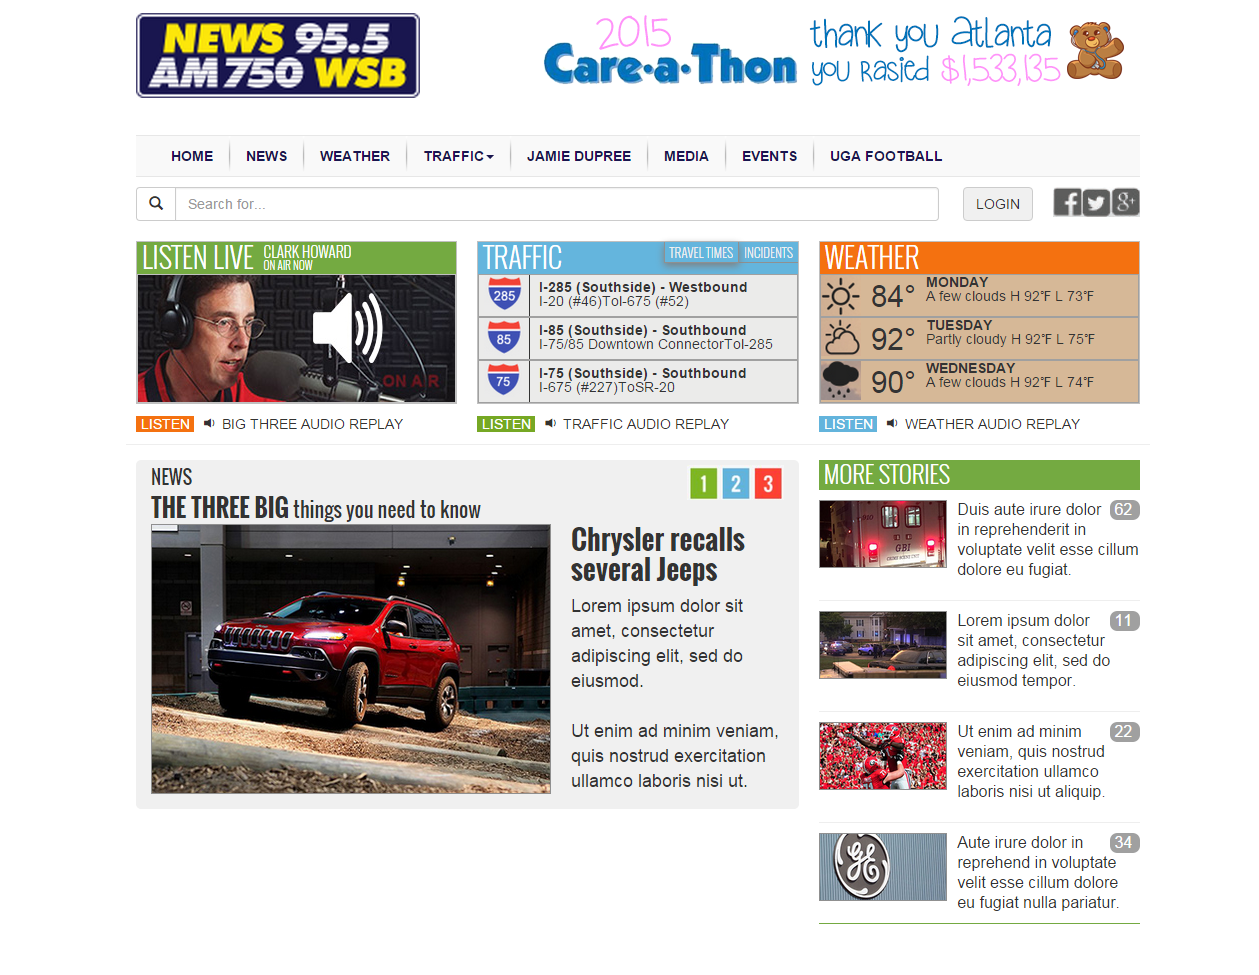
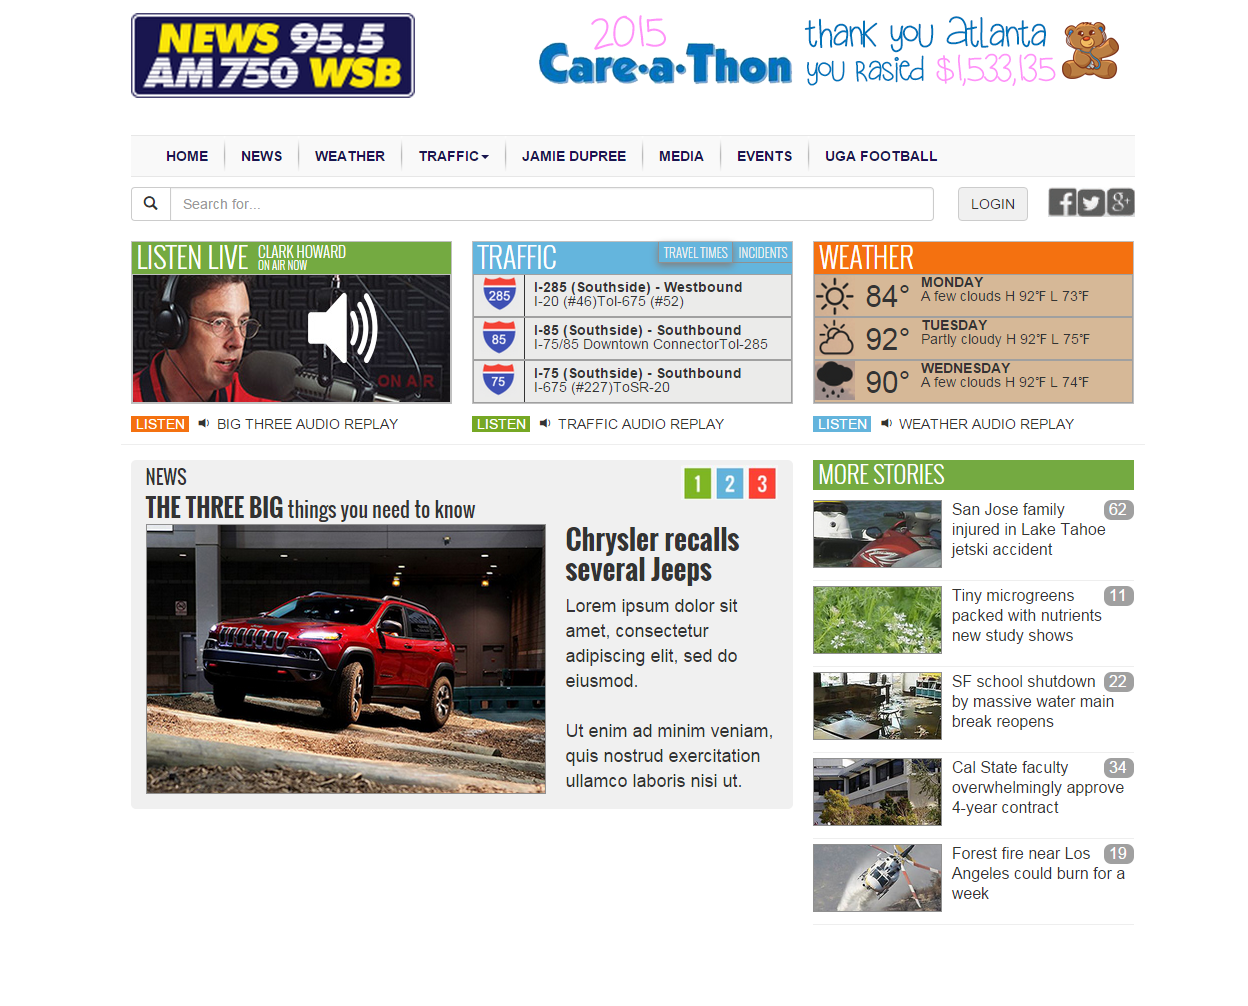
Updated comps

diff --git a/js/uidev-assignment-data.js b/js/uidev-assignment-data.js
@@ -28,8 +28,8 @@ angular.module('newstalkApp', [])
             lead_photo_image_url: "http://media.cmgdigital.com/shared/lt/lt_cache/resize/260x360/img/photos/2012/01/21/52/fe/28839068_3.jpg",
             pub_date: "2012-09-04T12:00:00-07:00",
             status: "1",
-            summary: "Tiny microgreens packed with nutrients",
-            title: "Tiny microgreens packed with nutrients",
+            summary: "Tiny microgreens packed with nutrients new study shows",
+            title: "Tiny microgreens packed with nutrients new study shows",
             story: "<p>They may be tiny, but a new study shows trendy microgreens punch well above their weight when it comes to nutrition.</p> <p>Researchers found microgreens like red cabbage, cilantro, and radish contain up to 40 times higher levels of vital nutrients than their mature counterparts.</p> <p>Microgreens are young seedlings of edible vegetables and herbs harvested less than 14 days after germination. They are usually about 1-3 inches long and come in a rainbow of colors, which has made them popular in recent years as garnishes with chefs.</p> <p>Although nutritional claims about microgreens abound on the Internet, this study is the first scientific evaluation of their nutritional content. Researchers say they were astonished by the results.</p> <p>&ldquo;The microgreens were four- to 40-fold more concentrated with nutrients than their mature counterparts,&rdquo; says researcher Qin Wang, PhD, assistant professor at the University of Maryland in College Park. &ldquo;When we first got the results we had to rush to double and triple check them.&rdquo;</p> <p>For example, red cabbage microgreens had 40 times more vitamin E and six times more vitamin C than mature red cabbage. Cilantro microgreens had three times more beta-carotene mature cilantro.</p> <p><strong>Microgreens Pack Nutritional Punch</strong></p> <p>Researchers evaluated levels of four groups of vital nutrients, including vitamin K, vitamin C, vitamin E, lutein, and beta-carotene, in 25 different commercially grown microgreens.</p> <p>The results are published in the Journal of Agricultural and Food Chemistry.</p> <p>Vitamin C, vitamin K, and vitamin E levels were highest among red cabbage, garnet amaranth, and green daikon radish microgreens.</p> <p>Cilantro microgreens were richest in terms of lutein and beta-carotene.</p> <p>&ldquo;All of these nutrients are extremely important for skin, eyes, and fighting cancer and have all sorts of benefits associated with them,&rdquo; says researcher Gene Lester, PhD, of the USDA.&nbsp;</p> <p>Lester said he was surprised to find microgreens were superior in nutritional value than the mature plants.</p> <p>&ldquo;To find that the levels were not only detectible but in some cases 4-6 times more concentrated than in the leaves of a mature plant, I find that quite astonishing.&rdquo;</p> <p>Although more research is needed, Wang says there may be a good explanation for microgreens&rsquo; high nutrient content.</p> <p>&ldquo;Because microgreens are harvested right after germination, all the nutrients they need to grow are there,&rdquo; says Wang. &ldquo;If they are harvested at the right time they are very concentrated with nutrients, and the flavor and texture is also good.&rdquo;</p> <p><strong>A Little Goes a Long Way</strong></p> <p>Experts say the flavor of microgreens is also more intense, so a little goes a long way to enhance a meal.</p> <p>Until recently, commercially grown microgreens have only been available to chefs, who use them as flavor accents and garnishes for soups, salads, and sandwiches.</p> <p>Today, they are available at most farmers markets and upscale grocery stores.</p> <p>They generally cost more than mature greens, but registered dietitian Roberta Duyff says that shouldn&rsquo;t discourage people from eating them.</p> <p>They are quick and easy to grow indoors on a sunny windowsill and are a great project for kids, says Duyff, who is the author of the American Dietetic Association Complete Food and Nutrition Guide.</p> <p>&ldquo;They are little, and kids like things that are kid&rsquo;s size,&rdquo; Duyff says. &ldquo;They can put it on their own salad or some cheese or hummus to make it look pretty.&rdquo;</p> <p>Like most spices and herbs that are also highly concentrated with nutrients, she says you don&rsquo;t need much to add flavor and spark to the plate.</p> <p>Duyff says microgreens are extremely delicate and, like any raw vegetable, need to be washed carefully before eating. Due to their high water content, cooking microgreens isn&rsquo;t recommended.</p> <p>When choosing a microgreen, researchers say to look for the most intensely colored ones, which will be the most nutritious.</p> <p>&ldquo;It&rsquo;s really kind of an artistic thing currently, but it&rsquo;s nice to know that not only do microgreens look pretty and have strong flavor, but they also have an incredible punch of nutrition,&rdquo; says Lester.</p> <p>SOURCES: Xiao, Z. Journal of Agricultural and Food Chemistry, Aug. 22, 2012.News release, American Chemical Society.Roberta L. Duyff, MS, RD, food and nutrition consultant, St. Louis, Mo.; author, American Dietetic Association Complete Food and Nutrition Guide.Gene Lester, PhD, research plant physiologist, USDA.Qin Wang, PhD, assistant professor, University of Maryland, College Park.</p>",
             topics: ["Health News", "vitamins", "Sprouting", "nutrition", "lutein", "Hydrocarbons", "Hospitality_Recreation", "health", "Food colorings", "Chemistry", "Carotenoids", "Carotene"],
             updated: "2012-09-04T12:00:00-07:00",
@@ -60,8 +60,8 @@ angular.module('newstalkApp', [])
             lead_photo_image_url: "http://media.cmgdigital.com/shared/lt/lt_cache/resize/260x230/img/photos/2012/09/04/8a/fb/sf_california_state_university.jpg",
             pub_date: "2012-09-04T11:34:55-07:00",
             status: "1",
-            summary: "Cal State faculty approve 4-year contract",
-            title: "Cal State faculty approve 4-year contract",
+            summary: "Cal State faculty overwhelmingly approve 4-year contract",
+            title: "Cal State faculty overwhelmingly approve 4-year contract",
             story: "<p>The California State University faculty has overwhelmingly approved a new four-year labor contract, ending more than two years of contentious bargaining with the administration, the union said Tuesday.</p> <p>Lillian Taiz, president of the California Faculty Association, said the contract, which largely preserves current working conditions and contains no salary raises, won 91 percent of approval by voting members.</p> <p>About 45 percent of the union's 12,500 voting members cast ballots over several weeks last month. Many faculty members were out of town on research assignments, Taiz said.</p> <p>The contract, which must still be ratified by the university's board of trustees at its meeting later this month, covers 23,000 professors, lecturers and other professional employees throughout CSU's 23 campuses. Not all are voting members.</p> <p>John Swarbrick, associate vice chancellor for labor relations, said in a statement that he was pleased that the union has passed the agreement and added that he expects the board to also ratify it.</p> <p>Faculty members have been working without a contract for the last 2 1/2 years during a contentious bargaining process that spurred a strike-authorization vote and intervention of a mediator last spring.</p> <p>With that issue now resolved, Taiz said faculty will be fully engaged in lobbying for passage of Proposition 30, which calls for increasing the sales tax and income taxes for the wealthy to raise funds for public education. If the measure fails in November, CSU will lose $250 million starting in January.</p> <p>\"It's one of those moments, and it doesn't happen too often, when faculty and the board are on the same page,\" Taiz said. \"We are 100 percent engaged in what happens next.\"</p> <p>With class sizes increasing, no pay raises for four years, and program cuts that threaten jobs, employees said morale is low on campuses.</p> <p>\"The faculty are feeling fairly beaten down,\" said Jonathan Karpf, an anthropology lecturer at San Jose State University. \"But the majority are feeling better that we've reached an agreement.\"</p> <p>The changes in the new contract are modest. Most of the union's battle was to preserve items the university wanted to cut. More than $750 million has been cut from CSU's budget over the past three years.</p>",
             topics: [],
             updated: "2012-09-04T11:34:55-07:00",

diff --git a/README.md b/README.md
@@ -26,11 +26,10 @@ Create a responsive webpage based on the graphical mockups provided.  You will b
 
 ####Feed data
 
-Your page should load data, into the More Stories content area of the page, from the provided data file. No content should be hard-coded into your document.  
+Your page will load data into the More Stories content area of the page from the controller defined in /js/uidev-assignment-data.js.   
 
-uidev-assignment/js/uidev-assignment-data.js
+You will render the story images and headlines via the ng-repeat Angular directive.  
 
-You will render the headline list content are of the web page via an Angular directive (ng-repeat).  Use the Angular directive ng-class to format the background color of the list.
 
 ####Bootstrap framework
 
